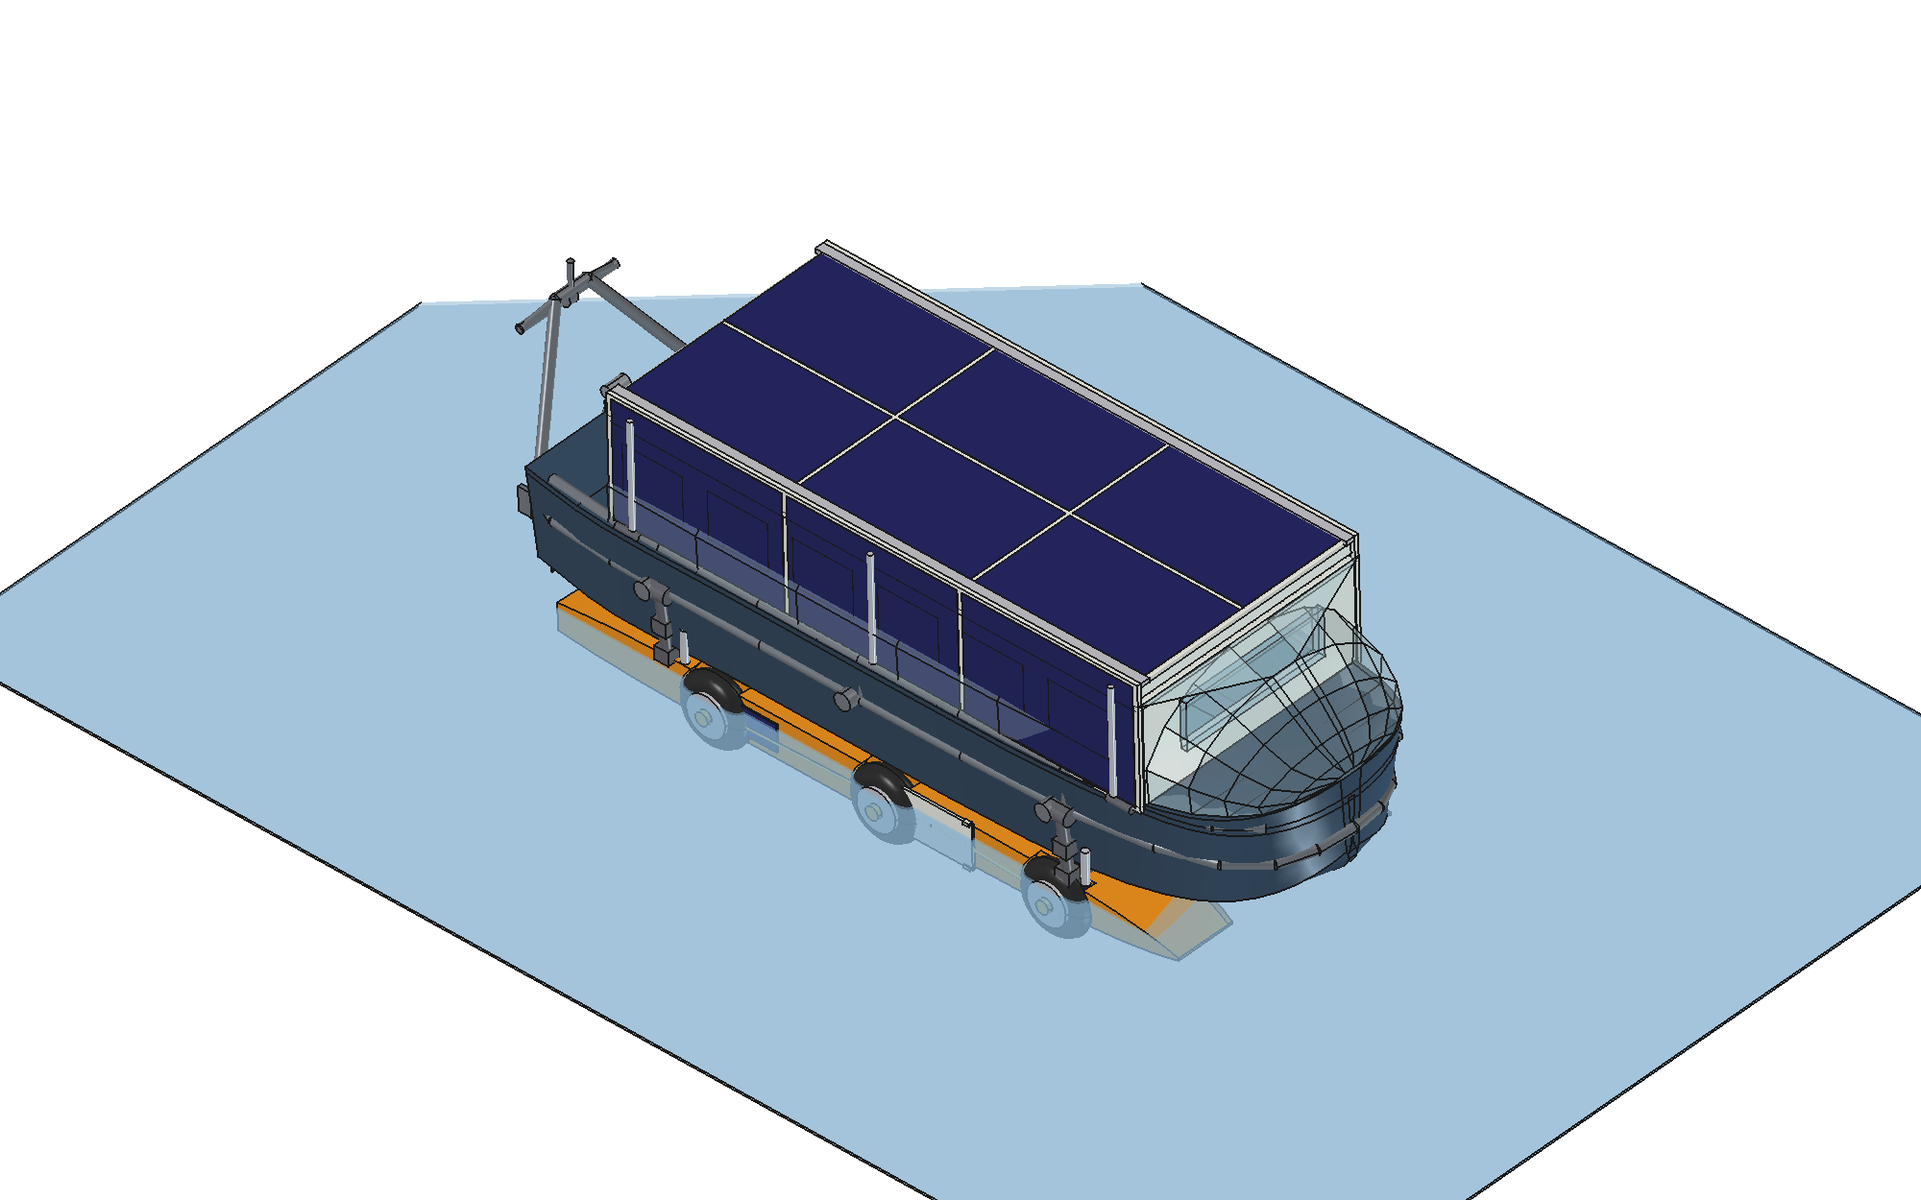
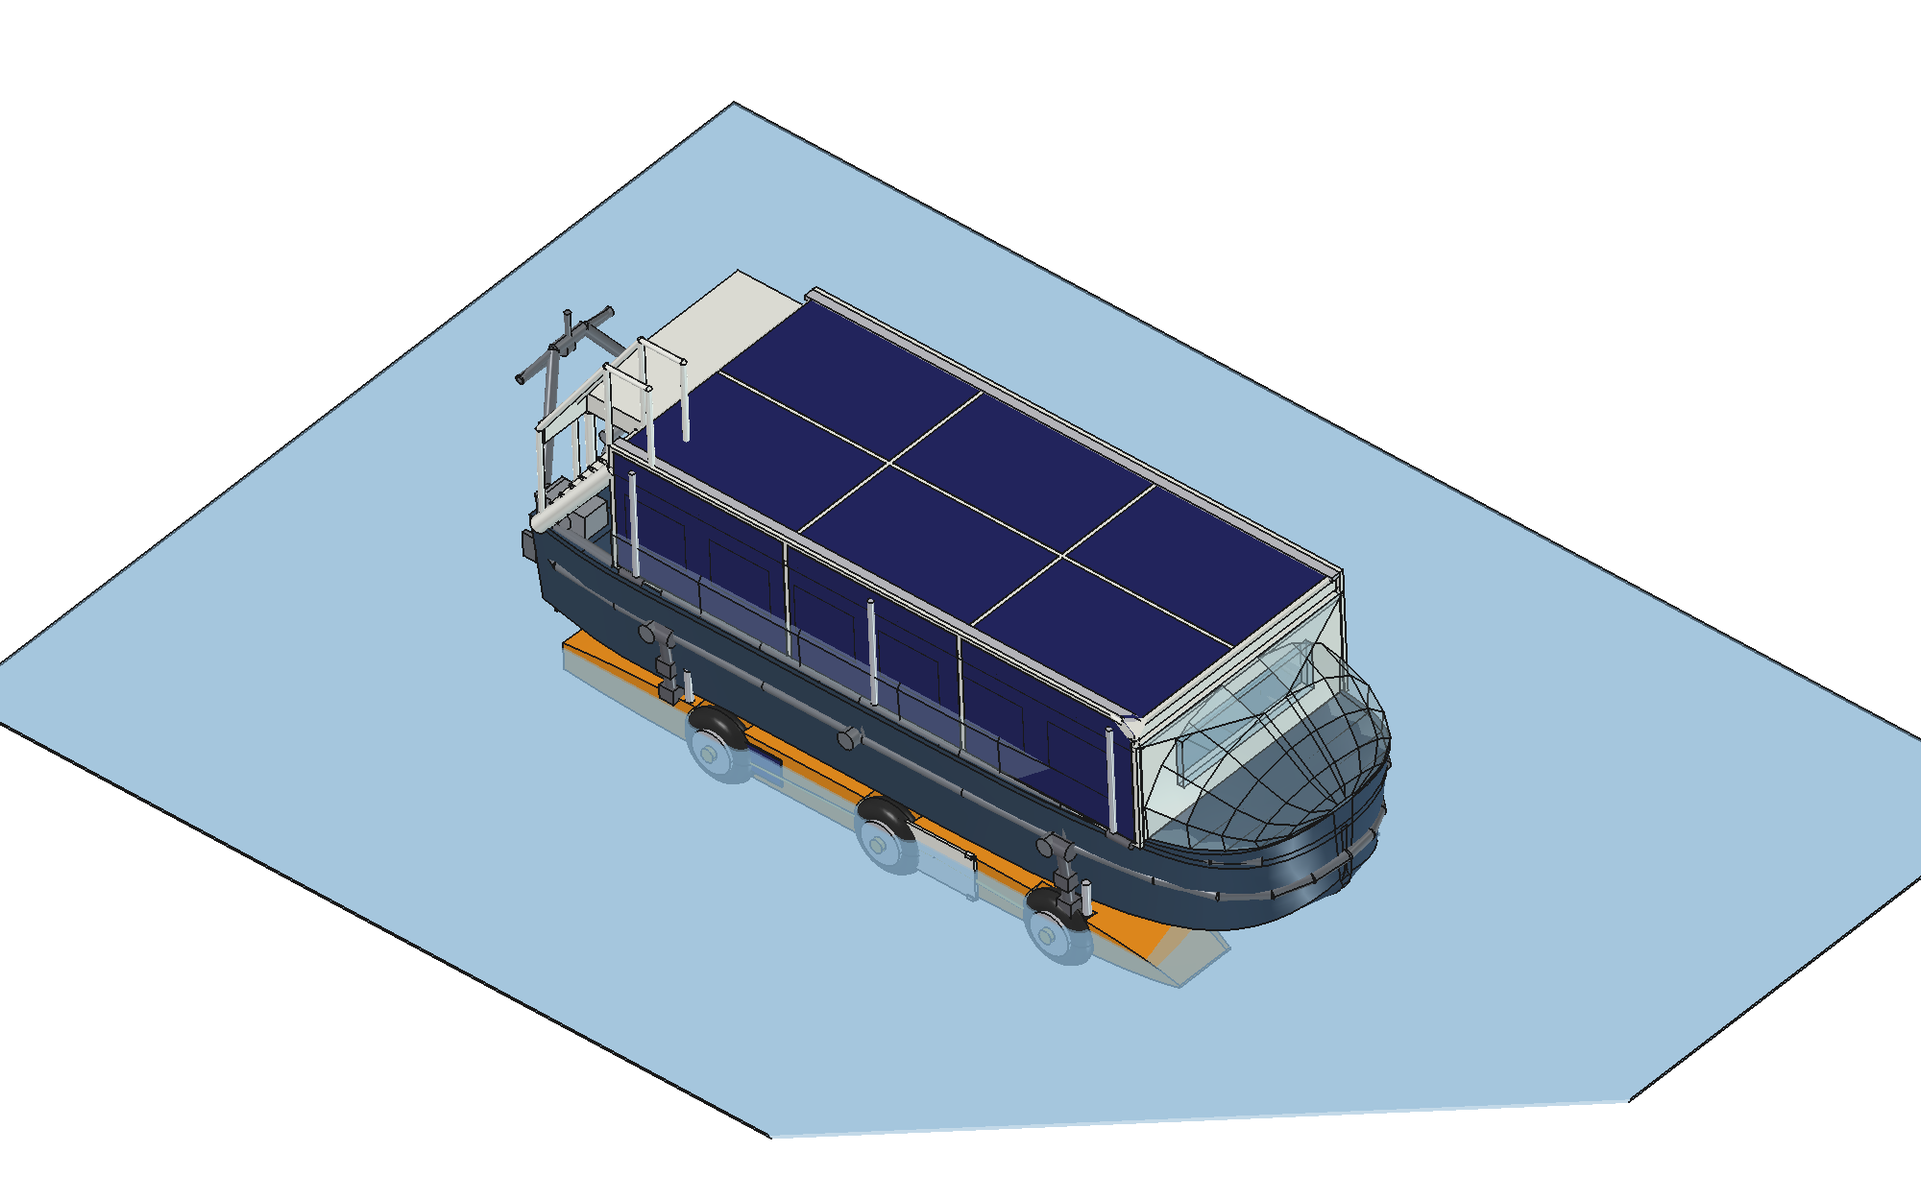
Aft entry: sunken cockpit, storm door, rain porch, ladder, AC, lockers
The cabin is only 1000 mm above deck, so a full-height door is
geometrically impossible (a 1900 mm door needs the cockpit floor below
the waterline). Built as a proper companionway instead:

- Sunken self-draining footwell, floor 360 mm above the waterline with
  transom scuppers, formed as a watertight tub let into the deck
- Gasketed door with four dogs on a 180 mm storm sill, 700 x 1300 mm
- Fixed porch roof over the whole cockpit, top flush with the roof
  terrace so it doubles as terrace floor; flashing seals it to the
  cabin wall
- Ship's ladder (54 deg, 7 nosed treads, stringers, handrails both
  sides returning as terrace grab rails) on the PORT side, left of the
  door, rising through a cut-out in the porch
- AC ventilator box in the upper starboard corner (heat pump, cools
  and heats); locker bank below it for tools and lines, opening into
  the cockpit so a flooded locker cannot reach the saloon
- Boarding gates: the sheer rail is left open x 950-1450 both sides
  with threshold steps, since the 50 mm side decks cannot be walked —
  the balconies are entered from the cockpit

docs/aft_entry.md added; glossary and README updated.

Changed region(s): [[0.0, 0.0936, 1.0, 1.0], [0.992, 0.7176, 1.0, 0.7488], [0.961, 0.7488, 0.992, 0.78]]

diff --git a/freecad/build_boat.py b/freecad/build_boat.py
@@ -87,13 +87,33 @@ def build_hull():
     # forward, so the extra height forward becomes a bow bulwark)
     shell = shell.fuse(outer.common(
         box(P.LOA + 400, 3200, 60, (-200, -1600, DECK_Z - 60))))
+    # sunken self-draining cockpit: cut the well, drop in a watertight tub
+    shell = shell.cut(box(
+        P.COCKPIT_X1 - P.COCKPIT_X0, 2 * P.COCKPIT_HW, 800,
+        (P.COCKPIT_X0, -P.COCKPIT_HW, P.COCKPIT_FLOOR)))
+    tub = box(P.COCKPIT_X1 - P.COCKPIT_X0 + P.COCKPIT_WALL,
+              2 * P.COCKPIT_HW + 2 * P.COCKPIT_WALL,
+              DECK_Z - P.COCKPIT_FLOOR + P.COCKPIT_WALL,
+              (P.COCKPIT_X0 - P.COCKPIT_WALL,
+               -P.COCKPIT_HW - P.COCKPIT_WALL,
+               P.COCKPIT_FLOOR - P.COCKPIT_WALL))
+    tub = tub.cut(box(P.COCKPIT_X1 - P.COCKPIT_X0, 2 * P.COCKPIT_HW,
+                      DECK_Z - P.COCKPIT_FLOOR + 100,
+                      (P.COCKPIT_X0, -P.COCKPIT_HW, P.COCKPIT_FLOOR)))
+    shell = shell.fuse(tub)
     shell = shell.cut(plan_prism(       # cabin-footprint deck opening
         [(P.CABIN_X0 + 50, -P.CABIN_W / 2 + 70),
          (P.CABIN_X1 - 50, -P.CABIN_W / 2 + 70),
          (P.CABIN_X1 - 50, P.CABIN_W / 2 - 70),
          (P.CABIN_X0 + 50, P.CABIN_W / 2 - 70)],
         DECK_Z - 60, DECK_Z + 60))
+    shell = shell.cut(door_opening())   # companionway through the bulkhead
     return shell
+
+
+def door_opening():
+    return box(220, 2 * P.DOOR_HW, P.DOOR_Z1 - P.DOOR_Z0,
+               (P.COCKPIT_X1 - 60, -P.DOOR_HW, P.DOOR_Z0))
 
 
 # ---------------------------------------------------------------
@@ -119,7 +139,7 @@ def build_cabin():
         panes.append(box(600, P.CABIN_W - 40, wh, (wx, -P.CABIN_W / 2 + 20, wz0)))
     cuts.append(box(200, 1500, wh, (P.CABIN_X1 - 100, -750, wz0)))   # windshield
     panes.append(box(120, 1500, wh, (P.CABIN_X1 - 60, -750, wz0)))
-    cuts.append(box(200, 650, 900, (P.CABIN_X0 - 100, -325, P.CABIN_BASE_Z)))
+    cuts.append(door_opening())          # companionway
     for c in cuts:
         shell = shell.cut(c)
     return shell, Part.makeCompound(panes)
@@ -451,6 +471,8 @@ def build_frame():
         for a, c in zip(chassis, chassis[1:]):
             parts.append(rod(a, c, P.FRAME_TUBE))
         for a, c in zip(sheer, sheer[1:]):
+            if a[0] >= P.GATE_X0 - 60 and c[0] <= P.GATE_X1 + 60:
+                continue                  # boarding gate to the balcony
             parts.append(rod(a, c, P.FRAME_SHEER_TUBE))
         # external straps tying the two rails, on the outside of the skin
         for sx in P.FRAME_STRAP_X:
@@ -520,6 +542,93 @@ def build_tow(pose):
         parts.append(Part.makeSphere(80, Vector(cx, 0, cz)))
         parts.append(box(70, 150, 150, (cx + 150, -75, cz - 40)))
     return Part.makeCompound(parts)
+
+
+def build_aft_entry():
+    """Companionway door, rain porch, stairs to the roof terrace, AC
+    ventilator box and cockpit lockers on the aft wall."""
+    parts, glass, dark = [], [], []
+    x0, x1 = P.COCKPIT_X0, P.COCKPIT_X1
+    # --- porch roof (top flush with the terrace) + posts + flashing
+    porch = box(P.PORCH_X1 - P.PORCH_X0, 2 * P.PORCH_HW, P.PORCH_T,
+                (P.PORCH_X0, -P.PORCH_HW, P.CABIN_ROOF_Z - P.PORCH_T))
+    porch = porch.cut(box(P.STAIR_X1 - 150, P.STAIR_Y1 - P.STAIR_Y0 + 120,
+                          400, (200, P.STAIR_Y0 - 60,
+                                P.CABIN_ROOF_Z - P.PORCH_T - 100)))
+    parts.append(porch)
+    for sgn in (-1, 1):
+        parts.append(rod((x0 + 60, sgn * P.PORCH_POST_Y, DECK_Z),
+                         (x0 + 60, sgn * P.PORCH_POST_Y,
+                          P.CABIN_ROOF_Z - P.PORCH_T), 90))
+    parts.append(box(P.CABIN_X0 - P.PORCH_X1 + 40, 2 * P.PORCH_HW, 60,
+                     (P.PORCH_X1 - 20, -P.PORCH_HW,
+                      P.CABIN_ROOF_Z - P.PORCH_T - 30)))     # flashing
+    # --- companionway: storm sill, frame, gasketed door leaf
+    parts.append(box(180, 2 * P.DOOR_HW + 160, P.DOOR_Z0 - P.COCKPIT_FLOOR,
+                     (x1 - 90, -P.DOOR_HW - 80, P.COCKPIT_FLOOR)))
+    for sgn in (-1, 1):
+        parts.append(box(150, 70, P.DOOR_Z1 - P.DOOR_Z0,
+                         (x1 - 75, sgn * P.DOOR_HW - 35, P.DOOR_Z0)))
+    parts.append(box(150, 2 * P.DOOR_HW + 70, 70,
+                     (x1 - 75, -P.DOOR_HW - 35, P.DOOR_Z1 - 35)))
+    leaf = box(50, 2 * P.DOOR_HW - 40, P.DOOR_Z1 - P.DOOR_Z0 - 60,
+               (x1 - 25, -P.DOOR_HW + 20, P.DOOR_Z0 + 30))
+    dark.append(leaf)
+    glass.append(box(20, 2 * P.DOOR_HW - 300, 620,
+                     (x1 - 40, -P.DOOR_HW + 150, P.DOOR_Z0 + 520)))
+    for dz in (0, 620):                                       # dogs
+        for sgn in (-1, 1):
+            parts.append(Part.makeCylinder(
+                26, 90, Vector(x1 - 40, sgn * (P.DOOR_HW - 60),
+                               P.DOOR_Z0 + 300 + dz), Vector(-1, 0, 0)))
+    # --- ship's ladder to the roof terrace, port side of the door.
+    # A 2.15 m roof off a 1.15 m deck in 720 mm of run is a ladder, not
+    # a staircase — so it is detailed as one: stringers on edge, nosed
+    # treads let into them, handrails both sides (the inboard side
+    # overlooks the footwell) returning onto the terrace as grab rails.
+    n, sx0, sx1 = P.STAIR_STEPS, P.STAIR_X0, P.STAIR_X1
+    z0, z1 = DECK_Z, P.CABIN_ROOF_Z
+    rise, going = (z1 - z0) / n, (sx1 - sx0) / n
+    for sy in (P.STAIR_Y0 + 55, P.STAIR_Y1 - 55):          # stringers
+        parts.append(rod((sx0 - 60, sy, z0 - 40), (sx1 + 40, sy, z1 - 40),
+                         150))
+    for i in range(n):                                      # nosed treads
+        tz = z0 + (i + 1) * rise
+        tx = sx0 + i * going
+        parts.append(box(going + 55, P.STAIR_Y1 - P.STAIR_Y0 - 60, 42,
+                         (tx, P.STAIR_Y0 + 30, tz - 42)))
+        parts.append(rod((tx, P.STAIR_Y0 + 30, tz - 21),
+                         (tx, P.STAIR_Y1 - 30, tz - 21), 42))
+    for sy in (P.STAIR_Y0 + 40, P.STAIR_Y1 - 40):           # handrails
+        parts.append(rod((sx0, sy, z0), (sx0, sy, z0 + 950), 60))
+        parts.append(rod((sx1, sy, z1), (sx1, sy, z1 + 950), 60))
+        parts.append(rod((sx0, sy, z0 + 950), (sx1, sy, z1 + 950), 55))
+        parts.append(rod((sx1, sy, z1 + 950),
+                         (sx1 + 420, sy, z1 + 950), 55))     # terrace grab
+        parts.append(rod((sx1 + 420, sy, z1 + 950),
+                         (sx1 + 420, sy, z1), 55))
+    # --- AC ventilator box (upper right) and lockers (rest of the wall)
+    dark.append(box(P.AC_DEPTH, P.AC_Y1 - P.AC_Y0, P.AC_Z1 - P.AC_Z0,
+                    (x1 - P.AC_DEPTH, P.AC_Y0, P.AC_Z0)))
+    for i in range(5):                                        # louvres
+        parts.append(box(30, P.AC_Y1 - P.AC_Y0 - 80, 26,
+                         (x1 - P.AC_DEPTH - 15, P.AC_Y0 + 40,
+                          P.AC_Z0 + 50 + i * 58)))
+    parts.append(box(P.LOCKER_DEPTH, P.LOCKER_Y1 - P.LOCKER_Y0,
+                     P.LOCKER_Z1 - P.LOCKER_Z0,
+                     (x1 - P.LOCKER_DEPTH, P.LOCKER_Y0, P.LOCKER_Z0)))
+    for i in range(2):                                        # locker doors
+        dark.append(box(24, (P.LOCKER_Y1 - P.LOCKER_Y0) / 2 - 30,
+                        P.LOCKER_Z1 - P.LOCKER_Z0 - 60,
+                        (x1 - P.LOCKER_DEPTH - 20,
+                         P.LOCKER_Y0 + 15 + i * (P.LOCKER_Y1 - P.LOCKER_Y0) / 2,
+                         P.LOCKER_Z0 + 30)))
+    # --- boarding steps out to the solar balconies, both sides
+    for sgn in (-1, 1):
+        parts.append(box(P.GATE_X1 - P.GATE_X0, 200, 50,
+                         (P.GATE_X0, sgn * 1040 - 100, DECK_Z)))
+    return (Part.makeCompound(parts), Part.makeCompound(dark),
+            Part.makeCompound(glass))
 
 
 def build_stern_gear():
@@ -673,6 +782,10 @@ def build_mode(mode):
     add("Frame", build_frame(), (0.42, 0.44, 0.47))
     add("SternArch", build_tow(cfg["tow"]), (0.42, 0.44, 0.47))
     add("SternGear", build_stern_gear(), (0.55, 0.57, 0.6))
+    aft_s, aft_d, aft_g = build_aft_entry()
+    add("AftEntry", aft_s, WHITE)
+    add("AftFittings", aft_d, (0.30, 0.32, 0.35))
+    add("DoorGlass", aft_g, (0.5, 0.7, 0.8), 70)
     add("MainJet", build_main_jet(), (0.8, 0.65, 0.2))
     add("WinterGarden", build_wintergarden(), (0.75, 0.88, 0.92), 70)
 

diff --git a/freecad/params.py b/freecad/params.py
@@ -223,12 +223,45 @@ ARCH_EXT = 800                # telescoping tongue stroke
 ARCH_TUBE = 95
 COUPLING_H = 430              # target coupling height above ground
 
+# ---- aft entry: sunken cockpit, storm door, porch, stairs ----
+# The cabin is only 1000 mm above deck, so the entry is a proper
+# COMPANIONWAY: a self-draining footwell (floor 360 mm above the
+# waterline, scuppers through the transom), a storm sill, and a
+# 1300 mm door header — you step over the sill and duck, then stand
+# up in the 1800 mm saloon. Every barge works this way; the geometry
+# leaves no alternative (a 1900 mm door would need the cockpit floor
+# 20 mm above the keel).
+# Side decks are only 50 mm wide, so the cockpit is also the hub for
+# reaching the solar balconies: they start at x 900, level with the
+# deck, and are entered through boarding gates in the sheer rail.
+COCKPIT_X0, COCKPIT_X1 = 150, 900
+COCKPIT_HW = 700              # footwell half width
+COCKPIT_FLOOR = 620           # 360 mm above WL -> drains overboard
+COCKPIT_WALL = 40
+DOOR_HW = 350
+DOOR_Z0, DOOR_Z1 = 800, 2100  # sill 180 above the footwell floor
+PORCH_X0, PORCH_X1 = 150, 820 # stops short of the wall; flashing seals
+PORCH_HW = 1150
+PORCH_T = 180                 # top flush with the roof terrace
+PORCH_POST_Y = 640
+STAIR_Y0, STAIR_Y1 = -1200, -720   # port strip, to the LEFT of the door
+STAIR_X0, STAIR_X1 = 160, 880   # longest run the aft deck allows
+STAIR_STEPS = 7
+GATE_X0, GATE_X1 = 950, 1450   # sheer-rail gap: step out to the balconies
+# aft wall fit-out, seen from the cockpit: AC upper right, lockers below
+AC_Y0, AC_Y1 = 600, 1140
+AC_Z0, AC_Z1 = 1760, 2100
+AC_DEPTH = 340
+LOCKER_Y0, LOCKER_Y1 = 430, 1140
+LOCKER_Z0, LOCKER_Z1 = 900, 1700
+LOCKER_DEPTH = 300
+
 # ---- stern gear: electric winch + anchor ----
 # Winch: self-recovery on slippery ramps — pull to a ramp-top anchor
 # point and the boat hauls itself out even with no wheel grip.
 # Anchor: stern roller on the gantry leg, rode to the same drum family.
 WINCH_PULL_KG = 2000          # 4500 lb class, 12/24 V
-WINCH_POS = (150, 0, 1010)
+WINCH_POS = (330, -980, 1265)   # on the port deck strip, clear of the door
 ANCHOR_ROLLER = (-140, 0, 1150)
 
 # ---- stern pod ----
@@ -361,6 +394,14 @@ def checks(verbose=True):
     assert sea_x < -300, "sea gantry not clear aft of the transom"
     assert sea_z > WL_Z + 1200, "gantry too low to hang an anchor"
     assert 2 * ARCH_PIVOT_Y + ARCH_TUBE <= 2550, "stern arch wider than road"
+    # aft entry
+    stair_ang = math.degrees(math.atan2(CABIN_ROOF_Z - CABIN_BASE_Z,
+                                        STAIR_X1 - STAIR_X0))
+    assert COCKPIT_FLOOR >= WL_Z + 250, \
+        f"cockpit floor only {COCKPIT_FLOOR - WL_Z} mm above WL"
+    assert DOOR_Z0 - COCKPIT_FLOOR >= 150, "storm sill too low"
+    assert stair_ang <= 65, f"stairs {stair_ang:.0f} deg too steep"
+    assert PORCH_X1 < CABIN_X0, "porch must clear the cabin wall for flashing"
     # jack-up stance equilibrium
     jack_d = FLOAT_W * BOAT_MASS / (2 * reserve_kg)      # submerged depth
     harbor_wl = (POD_ROAD[1] - FLOAT_W / 2) + jack_d     # ~0 = keel awash
@@ -397,6 +438,9 @@ def checks(verbose=True):
               f"{sea_z - WL_Z:.0f} above WL")
         print(f"stern tow       coupling {cpl_h:.0f} mm high, overhang aft "
               f"{-cpl_x:.0f} mm, tongue load {tongue:+.0f} kg")
+        print(f"aft entry       cockpit floor {COCKPIT_FLOOR - WL_Z:.0f} above WL, "
+              f"door {DOOR_Z1 - DOOR_Z0} tall over a {DOOR_Z0 - COCKPIT_FLOOR} sill, "
+              f"stairs {stair_ang:.0f} deg")
         print(f"jack-up stance  floats {jack_frac * 100:.0f}% deep, "
               f"keel {-harbor_wl:.0f} mm above water (awash), "
               f"pontoon GM ~{gm_est:.1f} m")

diff --git a/docs/aft_entry.md b/docs/aft_entry.md
@@ -1,0 +1,89 @@
+# Aft Entry — Cockpit, Door, Porch, Stairs
+
+Status: design study. Geometry in `freecad/params.py` (`COCKPIT_*`,
+`DOOR_*`, `PORCH_*`, `STAIR_*`, `AC_*`, `LOCKER_*`), shapes in
+`build_aft_entry()`. Terms in [glossary.md](glossary.md).
+
+## 1. The constraint that shapes everything
+
+The cabin is only **1 000 mm tall above the deck** — the other 800 mm
+of the 1 800 mm headroom comes from the hull below. So a full-height
+door is not geometrically possible: a 1 900 mm door would need the
+cockpit floor 20 mm above the keel, i.e. underwater.
+
+The answer is the one every barge and sailboat uses: a **companionway**
+— a sunken footwell, a storm sill, a header you duck under, then you
+stand up inside.
+
+```
+                     porch roof (top flush with the terrace)
+        ▄▄▄▄▄▄▄▄▄▄▄▄▄▄▄▄▄▄▄▄▄▄▄
+        │      ╱ ladder        │▒▒▒ cabin roof 2150
+        │    ╱                 ├──────────────
+   ═════╡  ╱   ┌───door────┐   │   AC box  ▲ upper right
+        │╱     │  1300 mm  │   │  lockers  │ rest of the wall
+   deck 1150   │           │   │           │
+        ┌──────┤ sill 180  ├───┴───────────┘
+        │ footwell 620 ────┴── sole 350 (step down inside)
+   ~~~~~~~~~~~ WL 260 ~~~~~~~~~~~
+```
+
+## 2. Water-tightness (storm case)
+
+The living quarters stay sealed from every direction:
+
+- **Self-draining footwell** — floor at 620, i.e. **360 mm above the
+  waterline**, with scuppers through the transom. Any water that gets
+  aboard runs straight out; it can never pond against the door.
+- **Storm sill 180 mm** above that floor. Water has to rise 180 mm in
+  an already-draining cockpit before it can even reach the threshold.
+- **Gasketed door** with four dogs (two per side), sealing against a
+  continuous frame — the same detail used on wheelhouse doors.
+- **Porch roof** over the whole cockpit, so rain never falls on the
+  door while it is open, and the crew can stand dry while unlocking.
+  A flashing plate closes the 80 mm gap between porch and cabin wall
+  and sheds that water to the sides.
+- **The AC unit does not breach the envelope**: only its ventilator
+  box sits outside, bolted to the aft wall through a gasketed flange.
+- **Lockers open outward**, into the cockpit — they are separate
+  compartments, so a flooded locker cannot reach the saloon.
+
+## 3. The aft wall, seen from the entrance
+
+Standing in the cockpit facing forward:
+
+| Position | Item |
+|---|---|
+| **Left (port)** of the door | ship's ladder to the roof terrace |
+| Centre | companionway door, 700 mm wide, 1 300 mm high over the sill |
+| **Upper right (starboard)** | AC ventilator box, 540 × 340 mm, louvred — heat pump: cools in summer, heats in winter |
+| Right, below the AC | locker bank, two doors, 720 × 800 mm — tools, lines, fenders, shore cables |
+
+## 4. Stairs to the roof terrace
+
+720 mm of run for 1 000 mm of rise is a **ship's ladder (54°)**, not a
+staircase — the aft deck simply has no more length. It is detailed as
+a proper ladder rather than pretending otherwise: two stringers on
+edge, seven nosed treads let into them, handrails on **both** sides
+(the inboard side overlooks the footwell), each returning onto the
+terrace as a grab rail. The ladder rises through a cut-out in the
+porch roof and lands flush on the terrace.
+
+If a gentler stair is ever wanted, the only way is to hang it along
+the cabin side over a solar balcony (1 300 mm of run → 37°) — at the
+cost of blocking that balcony's aft walkway.
+
+## 5. Reaching the solar balconies
+
+The side decks are only 50 mm wide — the cabin nearly fills the beam —
+so the balconies are **not** reached by walking along the sides. They
+are reached from the cockpit: both balconies start at x 900, level
+with the deck, right where the crew stands.
+
+- A **boarding gate** (x 950–1450) is left open in the sheer rail on
+  each side, with a threshold step plate.
+- Step out of the cockpit onto the side strip, through the gate, and
+  you are on the 1 200 mm-wide balcony walkway that runs the length of
+  the boat over the float.
+- In road mode the balconies fold up over the windows, so the gates
+  are simply unused.

diff --git a/docs/glossary.md b/docs/glossary.md
@@ -60,6 +60,24 @@ Shared language for the design. Geometry values live in
 - **Bevel (mating face)** — the 12° flat machined/molded on each float
   so it sits flush on the hull bottom in road pose (zero dead space).
 
+## Aft entry (details in [aft_entry.md](aft_entry.md))
+
+- **Companionway** — the boat-style entrance: sunken footwell, storm
+  sill, a header you duck under, then full standing height inside.
+- **Footwell / cockpit** — the sunken self-draining deck aft of the
+  cabin; floor 360 mm above the waterline, scuppers through the
+  transom. The hub for entering the boat and the balconies.
+- **Storm sill (coaming)** — the 180 mm raised threshold under the
+  door; water must rise over it to reach the living quarters.
+- **Dogs** — the clamping latches that squeeze a gasketed door onto
+  its frame.
+- **Porch** — the fixed roof over the cockpit; its top is flush with
+  the roof terrace, so it doubles as terrace floor.
+- **Ship's ladder** — a stair steeper than ~45°, with stringers and
+  nosed treads; the only thing that fits the aft deck's 720 mm run.
+- **Boarding gate** — the gap left in the sheer rail (x 950–1450) with
+  a threshold step, where you cross from the cockpit onto a balcony.
+
 ## Structure (details in [structure.md](structure.md))
 
 - **Exoskeleton (space frame)** — external welded steel frame carrying

diff --git a/README.md b/README.md
@@ -23,6 +23,7 @@ hydrostatic constraint is asserted in code.
 | Tow | stern-first; A-arch pin-locked: sea gantry / extensible drawbar, +100 kg tongue |
 | Stern gear | 2 t electric self-recovery winch + anchor on a transom roller |
 | Propulsion | 3 × 2 kW flush-intake waterjets (weed-proof), differential steering |
+| Aft entry | self-draining cockpit, gasketed storm door, rain porch, ladder to the terrace |
 | Cabin | 5.3 × 2.4 m, 1.8 m headroom; pop-top roof = chillout deck at anchor |
 
 ## The five configurations
@@ -46,6 +47,7 @@ docs/
   wheels.md         wheel system: kinematics, drive, BOM + 2026 costs
   propulsion.md     waterjet system: weed strategy, BOM
   structure.md      exoskeleton frame + two-pose tow arch
+  aft_entry.md      companionway, porch, ladder, AC, lockers, gates
   images/           dimensioned spec cards for purchasable parts
 drafts/             original concept PDF + STL sketch
 *.scad, Makefile    legacy OpenSCAD sketch (superseded by freecad/)
